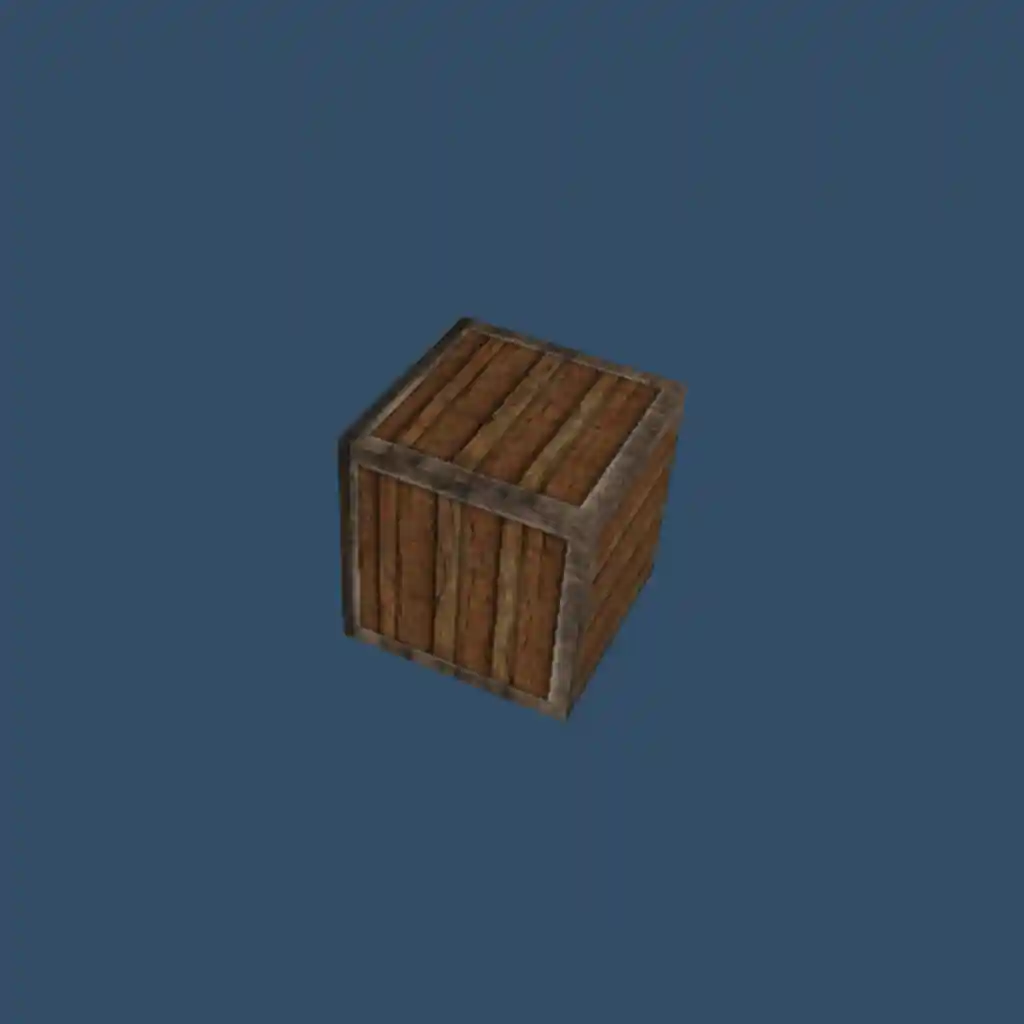
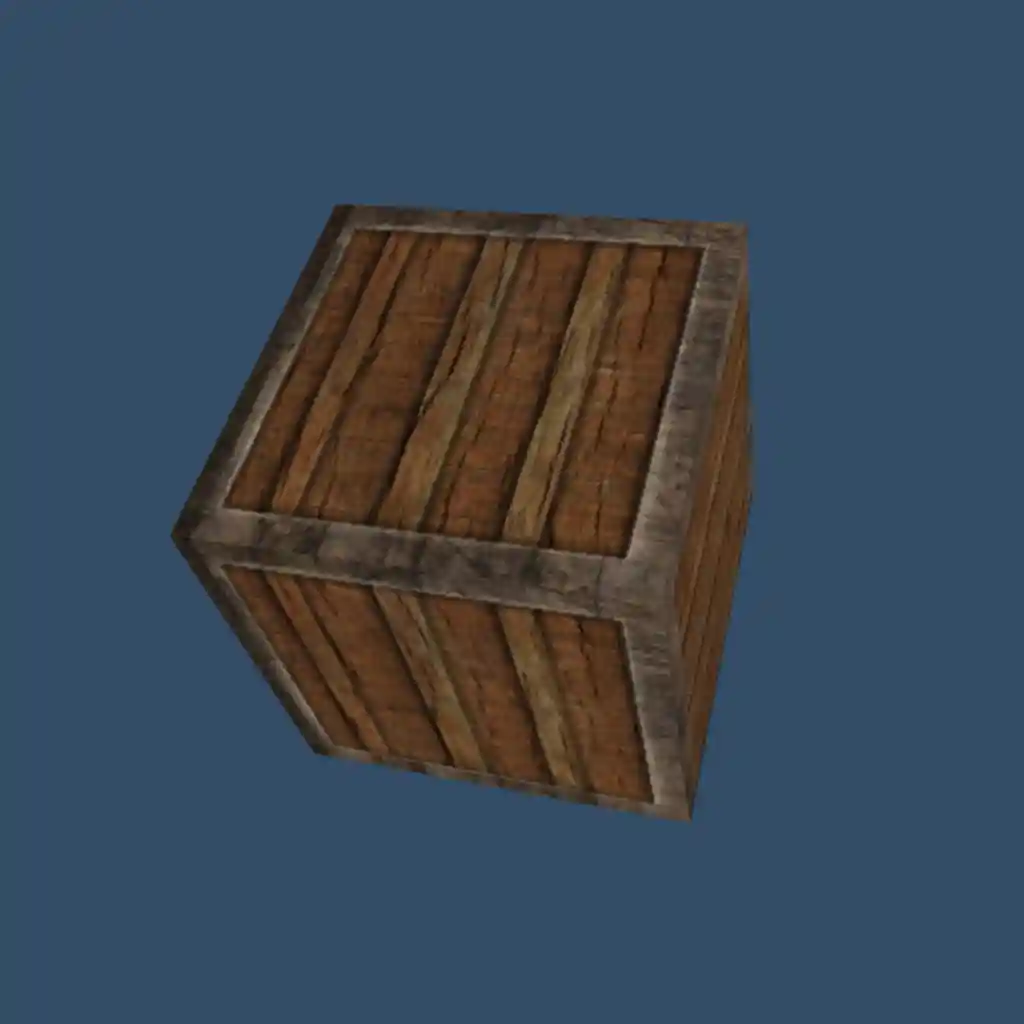
Update box screenshot

Changed region(s): [[0.1562, 0.1875, 0.75, 0.8125]]

diff --git a/frontend/camera.ts b/frontend/camera.ts
@@ -17,7 +17,7 @@ export class Camera {
 		this.far = 100;
 		this.fov = 45;
 
-		this.position = math.vec3.fromValues(0, 0, 10);
+		this.position = math.vec3.fromValues(0, 0, 6);
 		this.front = math.vec3.fromValues(0, 0, -1);
 	}
 
